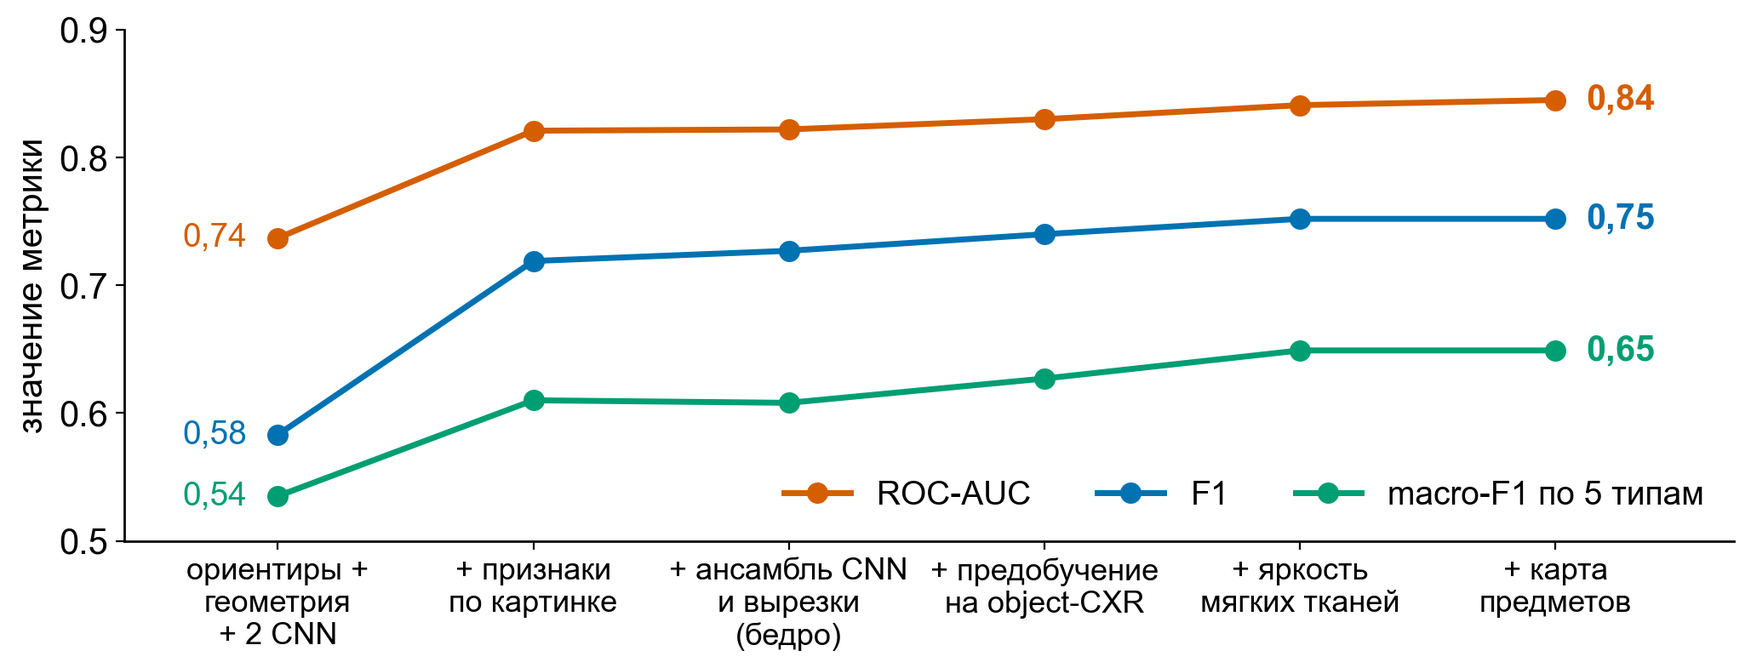
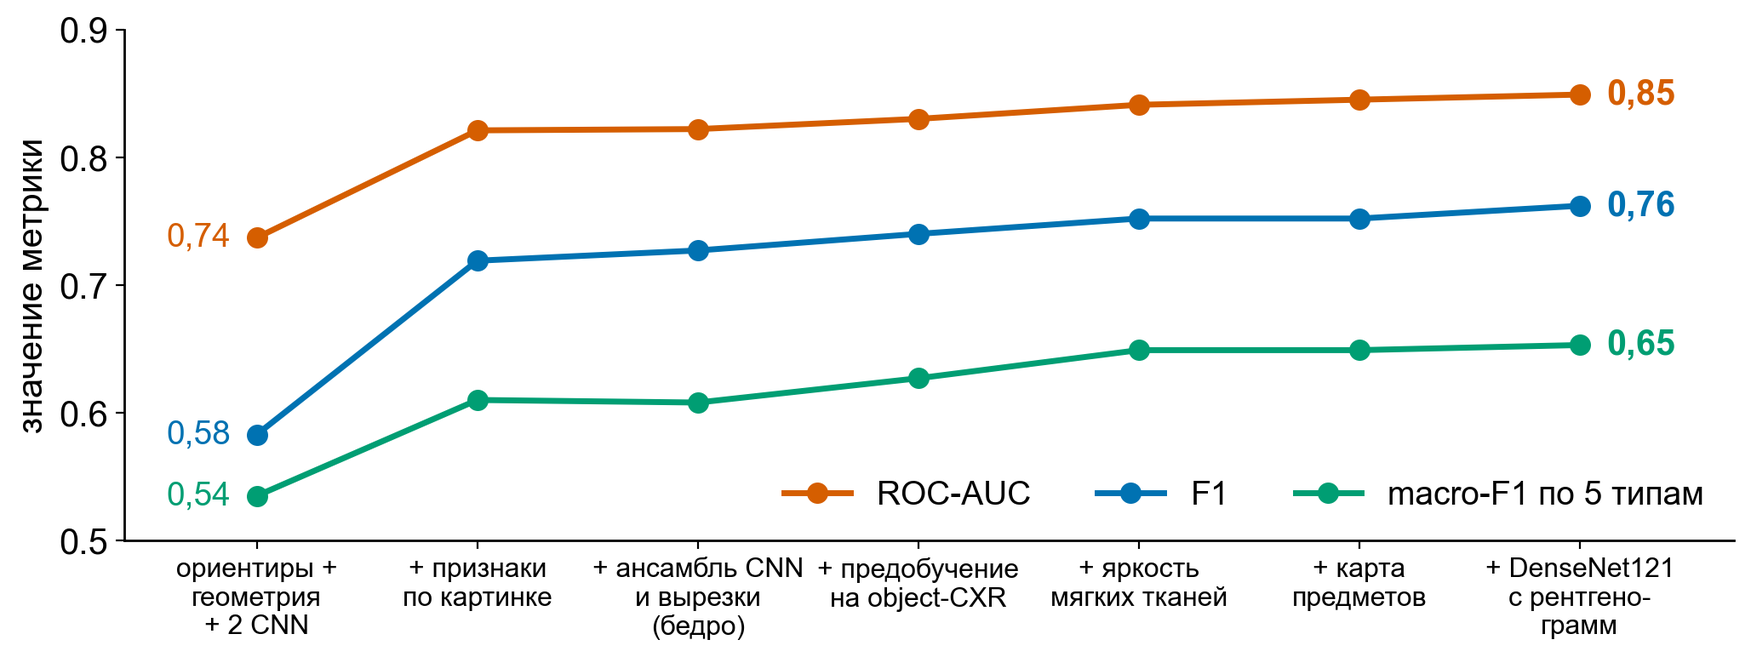
Документы и слайды под модель 1.0.0: метрики, пороги, состав ансамбля, веса v1.0.0 (18 файлов)

diff --git a/docs/08_Рисерч_что_ещё.md b/docs/08_Рисерч_что_ещё.md
@@ -67,7 +67,7 @@
 | 14 | Атлас нормального бедра (клиницист): выравнивание подобием по 5 ориентирам, среднее и разброс по нормам, z-отклонение в зонах вертела/седалищной | |z| по кадру 0,67, зоны вертела/седалищной 0,55–0,58, LR 0,49 | не работает: 2D-проекция ротации — не «отклонение яркости», а смещение контура; CNN на вырезке это видит, атлас — нет |
 | **15** | **Детектор предметов как карта** (`experiments/exp13_objectcxr_heatmap.py`): ResNet18+FPN → тепловая карта, обучен на масках object-CXR (8000 снимков, val AUC 0,90), к DXA применён **без дообучения** | на DXA сырой AUC максимума карты 0,84, площади вне столба 0,81; в связке top-hat + CNN + карта: предметы **0,90 → 0,92**; карта показывает предмет на снимке (дуги у углов, объект у края, вуаль) | **взято в бой** (`ObjMapScorer`, признаки `om_max_all`, `om_area`, рамки в details/оверлее). Итог по снимку: AUC 0,845, F1 0,752, acc 0,851, macro-F1 0,649. Это и метрика, и объяснимость «вот предмет» |
 | 11 | RadImageNet-инициализация ResNet50 vs ImageNet (`--init`) | вырезка вертела: ImageNet 0.821 / RadImageNet 0.809; предметы @320: 0.848 / 0.549; «любое» бедро: 0.840 / 0.736 | RadImageNet **не помогает**, у предметов сильно хуже (предобучка на КТ/МРТ/УЗИ не про тонкие линии); ImageNet остаётся. Побочно: ResNet50-ImageNet @320 по предметам 0.848 ≈ ResNet18 @512 (0,83) |
-| **16** | **Крупные и трансформерные сети, веса с рентгенограмм** (28.09; `--arch timm:<имя>`, `--arch xrv:densenet121-res224-all`; сравнение — `experiments/exp16_architectures.py`). Одинаковые разбиения по исследованиям, 25 эпох | **Вырезка малого вертела (150 снимков):** ResNet18 0,824 · ResNet50 0,821 · EfficientNetV2-S 0,819 · DenseNet121-ImageNet 0,815 · SE-ResNeXt50 0,807 · EfficientNet-B0 0,804 · RegNetY-032 0,795 · DINOv2 ViT-S/14 0,702 · **DenseNet121 с рентгенограмм грудной клетки (TorchXRayVision): 0,860 / 0,858 (40 эпох) / 0,877 (другое разбиение)**; та же сеть на вырезке седалищной кости 0,844, проксимального отдела 0,838, по всему кадру 0,798. **Предметы (99 снимков):** ResNet18 object-CXR 0,855 · ResNet50 0,848 · EfficientNet-B0 0,801 · DenseNet121-ImageNet 0,762 · EfficientNetV2-S@512 0,766 · DINOv2 ViT-S@448 0,649 · DenseNet121-рентген 0,45 и 0,40 (шаг 2e-4 и 5e-5). **Редкие критерии, DenseNet121-рентген по кадру:** укладка позвоночника 0,763 (измерения 0,901), ось 0,511 (измерения 0,799), поле ROI 0,755 (измерения 0,827). **В ансамбле по бедру:** любая сеть с ImageNet меняет ROC-AUC критерия на ±0,01; боевой + 3 DenseNet121-рентген (вертел, седалищная, проксимальный отдел) 0,866 → 0,873, парная разница +0,007 [−0,003; +0,019]; боевой + все 8 сетей DenseNet121-рентген 0,876, разница +0,011 [−0,007; +0,033]; по снимку ROC-AUC 0,845 → 0,849–0,851, F1 0,752 → 0,762, accuracy 0,851 → 0,859 (два снимка из 249) | **размер сети прироста не даёт** (9–26 млн параметров и трансформер не лучше ResNet18 на 99–150 снимках). **Предобучение на рентгенограммах помогает там, где признак — форма кости** (+0,045 одной сети на той же архитектуре), и мешает на посторонних предметах: сети, обученные ставить диагноз по рентгенограмме, приучены не замечать провода и застёжки; для предметов работает предобучение на задаче «есть ли предмет» (эксп. 12). На редких критериях (5–10 снимков с нарушением) сеть уступает измерениям. Состав боевой модели не менялся: прирост в ансамбле внутри доверительного интервала, смена весов за день до сдачи затрагивает контейнер и все метрики. Первый шаг доработки после сдачи. Трансформеры и ConvNeXt на Apple MPS (torch 2.5.1) падают в обратном проходе — обучение на CPU |
+| **16** | **Крупные и трансформерные сети, веса с рентгенограмм** (28.09; `--arch timm:<имя>`, `--arch xrv:densenet121-res224-all`; сравнение — `experiments/exp16_architectures.py`). Одинаковые разбиения по исследованиям, 25 эпох | **Вырезка малого вертела (150 снимков):** ResNet18 0,824 · ResNet50 0,821 · EfficientNetV2-S 0,819 · DenseNet121-ImageNet 0,815 · SE-ResNeXt50 0,807 · EfficientNet-B0 0,804 · RegNetY-032 0,795 · DINOv2 ViT-S/14 0,702 · **DenseNet121 с рентгенограмм грудной клетки (TorchXRayVision): 0,860 / 0,858 (40 эпох) / 0,877 (другое разбиение)**; та же сеть на вырезке седалищной кости 0,844, проксимального отдела 0,838, по всему кадру 0,798. **Предметы (99 снимков):** ResNet18 object-CXR 0,855 · ResNet50 0,848 · EfficientNet-B0 0,801 · DenseNet121-ImageNet 0,762 · EfficientNetV2-S@512 0,766 · DINOv2 ViT-S@448 0,649 · DenseNet121-рентген 0,45 и 0,40 (шаг 2e-4 и 5e-5). **Редкие критерии, DenseNet121-рентген по кадру:** укладка позвоночника 0,763 (измерения 0,901), ось 0,511 (измерения 0,799), поле ROI 0,755 (измерения 0,827). **В ансамбле по бедру:** любая сеть с ImageNet меняет ROC-AUC критерия на ±0,01; боевой + 3 DenseNet121-рентген (вертел, седалищная, проксимальный отдел) 0,866 → 0,873, парная разница +0,007 [−0,003; +0,019]; боевой + все 8 сетей DenseNet121-рентген 0,876, разница +0,011 [−0,007; +0,033]; по снимку ROC-AUC 0,845 → 0,849–0,851, F1 0,752 → 0,762, accuracy 0,851 → 0,859 (два снимка из 249) | **размер сети прироста не даёт** (9–26 млн параметров и трансформер не лучше ResNet18 на 99–150 снимках). **Предобучение на рентгенограммах помогает там, где признак — форма кости** (+0,045 одной сети на той же архитектуре), и мешает на посторонних предметах: сети, обученные ставить диагноз по рентгенограмме, приучены не замечать провода и застёжки; для предметов работает предобучение на задаче «есть ли предмет» (эксп. 12). На редких критериях (5–10 снимков с нарушением) сеть уступает измерениям. ConvNeXt-Tiny на вырезке вертела 0,802 (обучение на CPU, 1,5 часа). **Взято в модель 1.0.0 решением владельца 28.09:** три сети DenseNet121-рентген (вертел, седалищная кость, проксимальный отдел) добавлены к семи сетям по бедру. Итог по снимку: ROC-AUC 0,849 [0,782; 0,906], F1 0,762, accuracy 0,859, macro-F1 0,653. Прирост лежит внутри доверительного интервала, направление прироста одинаково в 93 % повторов бутстрепа. Трансформеры и ConvNeXt на Apple MPS (torch 2.5.1) падают в обратном проходе — обучение на CPU |
 
 ## 5. Что рекомендую дальше (по убыванию ценности на оставшиеся дни)
 
@@ -83,14 +83,15 @@
 ## 6. Куда наклонять порог: чувствительность или специфичность
 
 Организатор (чат, #384, 24.09): «оценивают комплексно — и качество метрик, и обоснованность подхода». Порог должен быть
-обоснован клинически и давать лучшие F1. Считали на OOF-вероятностях (249 снимков), пороги критериев масштабировались общим множителем.
+обоснован клинически и давать лучшие F1. Считали на OOF-вероятностях (249 снимков), пороги критериев масштабировались общим множителем
+(`scripts/threshold_report.py`; цифры — для модели 1.0.0 с тремя сетями DenseNet121, эксп. 16).
 
 | Режим | Чувствительность | Специфичность | Точность (PPV) | F1 бинарно | Accuracy | Помечено снимков | Macro-F1 |
 |---|---|---|---|---|---|---|---|
-| **F1-оптимум (сдача)** | 0,78 | 0,88 | 0,73 | **0,752** | **0,851** | 31 % | **0,649** |
-| ×0,8 | 0,81 | 0,80 | 0,62 | 0,699 | 0,799 | 38 % | 0,557 |
-| ×0,6 | 0,85 | 0,58 | 0,45 | 0,589 | 0,659 | 54 % | 0,457 |
-| чувствительный (recall ≥ 0,9 по критерию) | 0,94 | 0,40 | 0,40 | 0,553 | 0,558 | 70 % | — |
+| **F1-оптимум (сдача)** | 0,78 | 0,89 | 0,75 | **0,762** | **0,859** | 30 % | **0,653** |
+| ×0,8 | 0,81 | 0,81 | 0,64 | 0,712 | 0,811 | 37 % | 0,562 |
+| ×0,6 | 0,86 | 0,59 | 0,46 | 0,602 | 0,671 | 54 % | 0,462 |
+| чувствительный (recall ≥ 0,9 по критерию) | 0,94 | 0,38 | 0,38 | 0,544 | 0,542 | 71 % | — |
 | ×1,3 (специфичный) | 0,54 | 0,93 | 0,76 | 0,634 | 0,819 | 20 % | 0,326 |
 
 **Клиническая логика.** Цена пропуска: снимок с нарушением укладки идёт в расчёт МПК — ротация бедра меняет BMD шейки на
@@ -98,12 +99,12 @@
 лаборант или врач смотрит снимок ещё раз (секунды), в худшем случае пересъёмка (минуты, доза DXA ≈ 1–10 мкЗв). Асимметрия
 в пользу чувствительности — но не беспредельная: при 70 % помеченных снимков систему перестают читать (alert fatigue).
 
-**Решение.** (1) По умолчанию — F1-оптимум: он же максимум accuracy и macro-F1, помечается 31 % снимков при 29 % нарушений в данных,
+**Решение.** (1) По умолчанию — F1-оптимум: он же максимум accuracy и macro-F1, помечается 30 % снимков при 29 % нарушений в данных,
 то есть нагрузка на проверяющего равна реальной частоте проблемы. (2) Мягкий уклон в чувствительность даёт не порог, а
-**зона сомнения** `needs_review` (критерий в ±0,10 от порога): ещё 18 % снимков уходят на взгляд врача без ложного «нарушение».
+**зона сомнения** `needs_review` (критерий в ±0,10 от порога): 16 % снимков уходят на взгляд врача (accuracy вне зоны 0,87, в зоне 0,83).
 (3) Для клиники, где пропуск дороже перепроверки, есть режим `sensitive` (`--mode sensitive`): recall ≥ 0,9 по каждому критерию,
-чувствительность 0,94 при специфичности 0,40 — это осознанный выбор заказчика, не значение по умолчанию.
-(4) Ранжирование (`quality_prob`, ROC-AUC 0,845) от порога не зависит: для аудита качества по кабинетам/лаборантам достаточно сортировки.
+чувствительность 0,94 при специфичности 0,38 — это осознанный выбор заказчика, не значение по умолчанию.
+(4) Ранжирование (`quality_prob`, ROC-AUC 0,849) от порога не зависит: для аудита качества по кабинетам/лаборантам достаточно сортировки.
 
 ## Источники
 

diff --git a/README.md b/README.md
@@ -81,7 +81,7 @@ docker/, Dockerfile, docker-compose.yml, requirements*.txt, requirements.lock
 | Процессор | 2 ядра x86-64 | 8 ядер |
 | Память | 6 ГБ | 16 ГБ |
 | GPU | не требуется | не требуется (CUDA ускоряет пакеты в сотни файлов) |
-| Диск | 5 ГБ (веса 0,8 ГБ; образ 2,6 ГБ, в архиве 1,3 ГБ) | 10 ГБ |
+| Диск | 5 ГБ (веса 0,9 ГБ; образ 2,8 ГБ, в архиве 1,4 ГБ) | 10 ГБ |
 | ОС | Linux с Docker 24+ | то же |
 
 Зависимости: Python 3.12, PyTorch 2.4 (CPU), torchvision, numpy, OpenCV, pydicom, scikit-learn, openpyxl, FastAPI, uvicorn.
@@ -105,7 +105,7 @@ docker/, Dockerfile, docker-compose.yml, requirements*.txt, requirements.lock
 Те же шаги вручную:
 
 ```bash
-scripts/download_weights.sh            # 15 файлов, 0,8 ГБ; тег по умолчанию v0.3.0, другой: TAG=… scripts/download_weights.sh
+scripts/download_weights.sh            # 18 файлов, 0,9 ГБ; тег по умолчанию v1.0.0, другой: TAG=… scripts/download_weights.sh
 docker build -t dxaqc .                # или: docker compose build
 docker save dxaqc | gzip > dxaqc.tar.gz   # перенос образа на машину без интернета: docker load < dxaqc.tar.gz
 ```
@@ -179,7 +179,8 @@ curl -F "files=@study.zip" http://localhost:8000/api/analyze
 2. **Измерения по снимку** — ось позвоночника и диафиза по массе кости, запасы до краёв в сантиметрах, полоса таза,
    яркость мягких тканей, тонкие яркие линии (морфологический top-hat).
 3. **Свёрточные сети** — 3 сети по посторонним предметам (предобучены на 9000 рентгенограмм грудной клетки object-CXR),
-   7 сетей по укладке бедра (кадр целиком и вырезки вокруг малого вертела, седалищной кости, проксимального отдела),
+   10 сетей по укладке бедра: кадр целиком и вырезки вокруг малого вертела, седалищной кости, проксимального отдела
+   (семь сетей ResNet18 и EfficientNet-B0, три сети DenseNet121 с весами рентгенограмм грудной клетки TorchXRayVision),
    карта предметов (обучена на масках object-CXR, на DXA применяется без дообучения).
 4. **Логистическая регрессия по каждому критерию** на 2–4 признаках; пороги выбраны по максимуму F1 на снимках вне обучения.
 
@@ -193,22 +194,22 @@ curl -F "files=@study.zip" http://localhost:8000/api/analyze
 
 | Метрика (есть ли нарушение на снимке) | Значение [95 % ДИ] |
 |---|---|
-| ROC-AUC | 0,845 [0,775; 0,904] |
-| PR-AUC | 0,708 [0,585; 0,838] |
-| F1 | 0,752 [0,667; 0,825] |
-| Accuracy | 0,851 [0,809; 0,889] |
-| Balanced accuracy | 0,830 [0,780; 0,879] |
-| Чувствительность / специфичность | 0,778 / 0,881 |
+| ROC-AUC | 0,849 [0,782; 0,906] |
+| PR-AUC | 0,710 [0,587; 0,842] |
+| F1 | 0,762 [0,680; 0,832] |
+| Accuracy | 0,859 [0,820; 0,899] |
+| Balanced accuracy | 0,835 [0,786; 0,884] |
+| Чувствительность / специфичность | 0,778 / 0,893 |
 
 | Тип нарушения | Снимков с нарушением | ROC-AUC [95 % ДИ] | F1 |
 |---|---|---|---|
 | Некорректная укладка (позвоночник) | 6 из 99 | 0,90 [0,78; 0,99] | 0,67 |
 | Не выровнена ось позвоночника | 10 из 99 | 0,80 [0,66; 0,92] | 0,40 |
 | Присутствуют посторонние предметы | 17 из 99 | 0,92 [0,83; 0,99] | 0,78 |
-| Некорректная укладка (бедро) | 36 из 150 | 0,87 [0,77; 0,94] | 0,73 |
+| Некорректная укладка (бедро) | 36 из 150 | 0,87 [0,79; 0,94] | 0,75 |
 | Некорректная область интереса (бедро) | 7 из 150 | 0,83 [0,50; 1,00] | 0,67 |
 
-Macro-F1 по 5 типам — 0,649. Журнал всех экспериментов, включая отклонённые, — [docs/05](docs/05_Эксперименты.md),
+Macro-F1 по 5 типам — 0,653. Журнал всех экспериментов, включая отклонённые, — [docs/05](docs/05_Эксперименты.md),
 [docs/08](docs/08_Рисерч_что_ещё.md).
 
 ## 10. Известные ошибки и их обработка
@@ -243,7 +244,8 @@ Macro-F1 по 5 типам — 0,649. Журнал всех эксперимен
 Материалы постановщика (снимки, разметка, ТЗ, шаблон презентации) в репозитории не хранятся; участники скачивают их
 скриптом `scripts/download_data.sh` с паролем из чата задачи. Сторонние данные для предобучения: набор object-CXR
 (JF Healthcare, MIDL 2020, лицензия CC BY-NC 4.0); исходные веса ResNet18 и EfficientNet-B0 — ImageNet (torchvision).
-В эксперименте 16 (в состав модели не вошёл) использованы веса DenseNet121 из TorchXRayVision (arXiv:2111.00595, библиотека под лицензией MIT).
+Исходные веса DenseNet121 — TorchXRayVision (Cohen JP, et al., arXiv:2111.00595; библиотека под лицензией MIT), предобучение на открытых
+наборах рентгенограмм грудной клетки. Библиотека нужна только при обучении; в сервисе сеть собирается из torchvision.
 
 ## 13. Команда и использование ИИ
 

diff --git a/docs/TRAINING.md b/docs/TRAINING.md
@@ -11,6 +11,7 @@
 | Экспертная разметка постановщика | 5 критериев, истина — колонки критериев | метки нарушений |
 | Разметка ориентиров командой | 252 снимка, 8 и 11 ориентиров, согласованность врачей 2,9 мм | обучение локализатора |
 | object-CXR (CC BY-NC 4.0) | 9000 рентгенограмм грудной клетки, половина с предметами | предобучение сетей по предметам |
+| Веса DenseNet121 TorchXRayVision (`densenet121-res224-all`) | сеть, обученная на открытых наборах рентгенограмм грудной клетки | исходные веса трёх сетей по укладке бедра |
 
 ```bash
 LCT_PASSWORD='…' scripts/download_data.sh && python scripts/unpack_data.py
@@ -40,10 +41,17 @@ PYTHONPATH=src python scripts/train_cnn_criterion.py --criterion hip_positioning
 PYTHONPATH=src python scripts/train_cnn_criterion.py --criterion hip_positioning_rotation --crop isch --half 50 --size 224 --tag isch100
 PYTHONPATH=src python scripts/train_cnn_criterion.py --criterion hip_positioning_rotation --crop prox --half 85 --size 288 --tag prox170
 PYTHONPATH=src python scripts/train_cnn_criterion.py --criterion hip_any --crop lt --half 50 --size 224 --tag any_lt100
+# три сети DenseNet121 с весами рентгенограмм грудной клетки (нужен пакет torchxrayvision: pip install torchxrayvision)
+X=xrv:densenet121-res224-all
+PYTHONPATH=src python scripts/train_cnn_criterion.py --criterion hip_positioning_rotation --crop lt --half 50 --size 224 --arch $X --lr 2e-4 --tag lt100_xrv
+PYTHONPATH=src python scripts/train_cnn_criterion.py --criterion hip_positioning_rotation --crop isch --half 50 --size 224 --arch $X --lr 2e-4 --tag isch100_xrv
+PYTHONPATH=src python scripts/train_cnn_criterion.py --criterion hip_positioning_rotation --crop prox --half 85 --size 288 --arch $X --lr 2e-4 --tag prox170_xrv
 
 # 4. логистические регрессии по критериям, пороги, отчёт
 PYTHONPATH=src python scripts/train_criteria.py           # → weights/criteria.json
+PYTHONPATH=src python scripts/make_modes.py               # режимы порогов competition и sensitive
 PYTHONPATH=src python scripts/make_report.py              # → docs/metrics.md
+PYTHONPATH=src python scripts/threshold_report.py         # чувствительность и специфичность при разных порогах
 ```
 
 Состав ансамблей задаётся в одном месте — `src/dxaqc/cnn.py: CNN_SOURCES`; его читают и обучение, и инференс.
@@ -65,4 +73,7 @@ PYTHONPATH=src python scripts/make_report.py              # → docs/metrics.md
 ## 5. Что проверено и отклонено
 
 PatchCore, RAD-DINO, RadImageNet, атлас нормального бедра, индекс запирательного отверстия, мета-классификатор,
-признак контралатерального бедра, вырезка шейки, сети с входом 512 px для предметов — цифры в `docs/08_Рисерч_что_ещё.md`.
+признак контралатерального бедра, вырезка шейки, сети с входом 512 px для предметов, сети крупнее ResNet18
+(ResNet50, EfficientNetV2-S, SE-ResNeXt50, RegNetY-032, ConvNeXt-Tiny) и трансформер DINOv2 — цифры в `docs/08_Рисерч_что_ещё.md`.
+
+Библиотеки `timm` и `torchxrayvision` нужны только для обучения и экспериментов. Сервис и контейнер используют torchvision.

diff --git a/docs/DEMO.md b/docs/DEMO.md
@@ -24,7 +24,7 @@ git clone https://github.com/YODA02041994/lct2026-dxa-quality && cd lct2026-dxa-
 | Файл | Область | Класс | Тип нарушения | Вероятность: контейнер / прототип |
 |---|---|---|---|---|
 | `CR000000_ПОП.dcm` | поясничный отдел позвоночника | нарушение | Присутствуют посторонние предметы | 1,00 / 1,00 |
-| `CR000000_ППОБ.dcm` | проксимальный отдел бедра (R) | нарушение | Некорректная укладка | 0,98 / 0,97 |
+| `CR000000_ППОБ.dcm` | проксимальный отдел бедра (R) | нарушение | Некорректная укладка | 0,97 / 0,96 |
 | `CR000001_ЛПОБ.dcm` | проксимальный отдел бедра (L) | нарушение | Некорректная укладка | 0,91 / 0,85 |
 
 Прототип работает на сервере с 2 ядрами в экономном режиме (`DXAQC_NETS_PER_FILE=1`: одна сеть из каждого файла весов),
@@ -82,6 +82,6 @@ curl http://localhost:8000/health
 ./run.sh batch "Для теста.zip" out_sensitive --mode sensitive
 ```
 
-Обычный режим настроен на максимум F1 (чувствительность 0,78, специфичность 0,88). Режим `sensitive` поднимает
+Обычный режим настроен на максимум F1 (чувствительность 0,78, специфичность 0,89). Режим `sensitive` поднимает
 чувствительность каждого критерия до 0,9 и выше для контроля на потоке, где пропуск нарушения дороже повторного
 просмотра. Снимки, у которых вероятность критерия ближе 0,10 к порогу, получают отметку «проверить».

diff --git a/docs/USER_GUIDE.md b/docs/USER_GUIDE.md
@@ -51,8 +51,8 @@ docker run --rm -v "$PWD/in:/in" -v "$PWD/out:/out" dxaqc run -i /in -o /out --o
 
 | Режим | Когда использовать | Чувствительность / специфичность |
 |---|---|---|
-| обычный (по умолчанию) | аудит архива, отчётность | 0,78 / 0,88; помечается 31 % снимков |
-| `--mode sensitive` | контроль на потоке, когда пропуск дороже перепроверки | 0,94 / 0,40; помечается 70 % снимков |
+| обычный (по умолчанию) | аудит архива, отчётность | 0,78 / 0,89; помечается 30 % снимков |
+| `--mode sensitive` | контроль на потоке, когда пропуск дороже перепроверки | 0,94 / 0,38; помечается 71 % снимков |
 
 ## 6. Границы применимости
 

diff --git a/docs/DEPLOY.md b/docs/DEPLOY.md
@@ -4,7 +4,7 @@
 
 ```bash
 git clone https://github.com/YODA02041994/lct2026-dxa-quality && cd lct2026-dxa-quality
-scripts/download_weights.sh          # 15 файлов, 0,8 ГБ, нужен интернет; curl или авторизованный gh
+scripts/download_weights.sh          # 18 файлов, 0,9 ГБ, нужен интернет; curl или авторизованный gh
 docker build -t dxaqc .
 docker run --rm dxaqc python -c "from dxaqc.predict import load_default_predictor as l; print(l().name)"   # → landmarks
 docker run --rm -v "$PWD/in:/in" -v "$PWD/out:/out" dxaqc run -i /in -o /out
